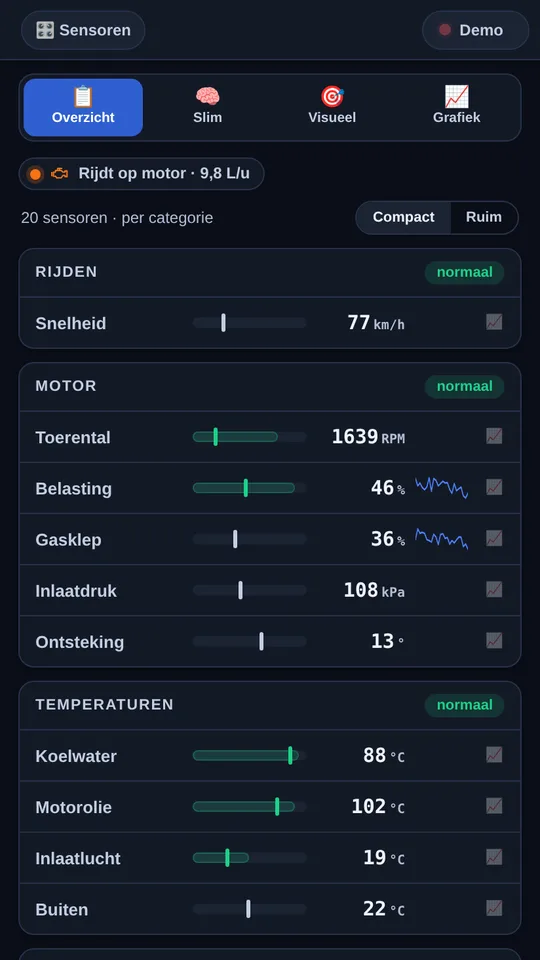
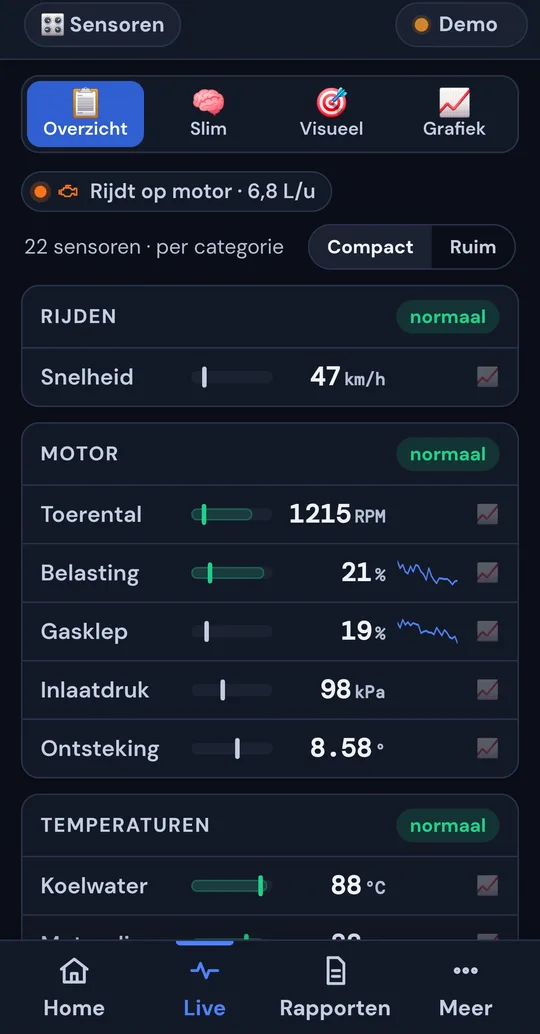
Website: Telemetrie en Overzicht uit een echte telefoonopname in de galerij
Claude-Session: https://claude.ai/code/session_01UqhcqoJv895NeWBr2GRvpm

diff --git a/index.html b/index.html
@@ -160,7 +160,7 @@
     <div style="margin-top:clamp(70px,9vw,120px)" id="weergaves">
       <p class="kick rv"><b>Meer weergaves</b></p>
       <h3 class="d2 rv" style="margin:28px 0 clamp(24px,3vw,40px)">Niet altijd een tunnel. <i>Kies je meter.</i></h3>
-      <p class="lead rv" style="max-width:720px;margin-bottom:clamp(28px,4vw,48px)">Hyperlane is de blikvanger, maar Visueel heeft meer standen. Elk met de sensoren die bij dat onderwerp horen. Veeg opzij om te wisselen. En wil je cijfers in plaats van meters: Overzicht, Slim en Grafiek staan er gewoon naast.</p>
+      <p class="lead rv" style="max-width:720px;margin-bottom:clamp(28px,4vw,48px)">Hyperlane is de blikvanger, maar Visueel heeft meer standen, tot en met Telemetrie: G-kracht, helling en kanteling uit de telefoon. Elk met de sensoren die bij dat onderwerp horen. Veeg opzij om te wisselen. En wil je cijfers in plaats van meters: Overzicht, Slim en Grafiek staan er gewoon naast.</p>
       <div style="display:grid;grid-template-columns:repeat(auto-fit,minmax(min(100%,440px),1fr));gap:clamp(24px,3vw,40px)"><figure class="rv" style="margin:0"><img src="img/vis/basis.webp" width="1100" height="495" alt="PidLane-weergave Basis" loading="lazy" style="width:100%;height:auto;border-radius:14px;display:block;border:1px solid rgba(255,255,255,.1)"><figcaption style="margin-top:10px;font-size:15px;line-height:1.5"><b>Basis</b> <span style="opacity:.7">De vaste meter: snelheid in het midden, toeren eromheen, temperatuur, verbruik en tank eronder.</span></figcaption></figure><figure class="rv" style="margin:0"><img src="img/vis/temp.webp" width="1100" height="495" alt="PidLane-weergave Temperatuur" loading="lazy" style="width:100%;height:auto;border-radius:14px;display:block;border:1px solid rgba(255,255,255,.1)"><figcaption style="margin-top:10px;font-size:15px;line-height:1.5"><b>Temperatuur</b> <span style="opacity:.7">Koelwater, olie, inlaat en buiten als vijf glazen buizen naast elkaar.</span></figcaption></figure><figure class="rv" style="margin:0"><img src="img/vis/emissie.webp" width="1100" height="495" alt="PidLane-weergave Emissie" loading="lazy" style="width:100%;height:auto;border-radius:14px;display:block;border:1px solid rgba(255,255,255,.1)"><figcaption style="margin-top:10px;font-size:15px;line-height:1.5"><b>Emissie</b> <span style="opacity:.7">Lambda groot, met brandstoftrims, O₂-sensoren en EGR ernaast.</span></figcaption></figure><figure class="rv" style="margin:0"><img src="img/vis/verbruik.webp" width="1100" height="495" alt="PidLane-weergave Verbruik" loading="lazy" style="width:100%;height:auto;border-radius:14px;display:block;border:1px solid rgba(255,255,255,.1)"><figcaption style="margin-top:10px;font-size:15px;line-height:1.5"><b>Verbruik</b> <span style="opacity:.7">Verbruik nu, digitaal, met snelheid, gaspedaal, luchtmassa en tank.</span></figcaption></figure><figure class="rv" style="margin:0"><img src="img/vis/motor.webp" width="1100" height="495" alt="PidLane-weergave Motor" loading="lazy" style="width:100%;height:auto;border-radius:14px;display:block;border:1px solid rgba(255,255,255,.1)"><figcaption style="margin-top:10px;font-size:15px;line-height:1.5"><b>Motor</b> <span style="opacity:.7">Toerental als neonring, met belasting, gasklep, inlaatdruk en ontsteking.</span></figcaption></figure></div>
     </div>
   </div>
@@ -365,8 +365,8 @@
   <div class="wrap">
     <p class="kick rv"><b>Zo ziet het eruit</b></p>
     <h2 class="d2 rv" style="margin:34px 0 clamp(28px,4vw,48px)">De echte app. <i>Geen mockup.</i></h2>
-    <div class="rv" style="display:flex;gap:16px;overflow-x:auto;scroll-snap-type:x mandatory;padding-bottom:12px;-webkit-overflow-scrolling:touch"><figure style="flex:0 0 clamp(200px,24vw,270px);margin:0;scroll-snap-align:start"><img src="img/app/meekijken.webp" width="540" height="960" alt="PidLane-scherm: Je monteur kijkt live mee" loading="lazy" style="width:100%;height:auto;border-radius:18px;display:block"></figure><figure style="flex:0 0 clamp(200px,24vw,270px);margin:0;scroll-snap-align:start"><img src="img/app/foutcodes.webp" width="540" height="960" alt="PidLane-scherm: Lampje aan? Weet het in 30 seconden" loading="lazy" style="width:100%;height:auto;border-radius:18px;display:block"></figure><figure style="flex:0 0 clamp(200px,24vw,270px);margin:0;scroll-snap-align:start"><img src="img/app/standen.webp" width="540" height="960" alt="PidLane-scherm: Kies je stand: Eco, Sport of Cruise" loading="lazy" style="width:100%;height:auto;border-radius:18px;display:block"></figure><figure style="flex:0 0 clamp(200px,24vw,270px);margin:0;scroll-snap-align:start"><img src="img/app/overzicht.webp" width="540" height="960" alt="PidLane-scherm: Overzicht, alle sensoren per categorie" loading="lazy" style="width:100%;height:auto;border-radius:18px;display:block"></figure><figure style="flex:0 0 clamp(200px,24vw,270px);margin:0;scroll-snap-align:start"><img src="img/app/slim.webp" width="540" height="960" alt="PidLane-scherm: Alleen wat er nu toe doet" loading="lazy" style="width:100%;height:auto;border-radius:18px;display:block"></figure><figure style="flex:0 0 clamp(200px,24vw,270px);margin:0;scroll-snap-align:start"><img src="img/app/grafiek.webp" width="540" height="960" alt="PidLane-scherm: Zie het verloop, niet één moment" loading="lazy" style="width:100%;height:auto;border-radius:18px;display:block"></figure><figure style="flex:0 0 clamp(200px,24vw,270px);margin:0;scroll-snap-align:start"><img src="img/app/accu.webp" width="540" height="960" alt="PidLane-scherm: Weet hoe je accu ervoor staat" loading="lazy" style="width:100%;height:auto;border-radius:18px;display:block"></figure><figure style="flex:0 0 clamp(200px,24vw,270px);margin:0;scroll-snap-align:start"><img src="img/app/ik-wil.webp" width="540" height="960" alt="PidLane-scherm: Kopen, verkopen of op reis: één tik" loading="lazy" style="width:100%;height:auto;border-radius:18px;display:block"></figure></div>
-    <p class="rv" style="margin-top:14px;opacity:.7;font-size:14px">Opgenomen in de demomodus: een gesimuleerde Mazda CX-5. Probeer hem zelf op <a href="https://app.pidlane.nl" target="_blank" rel="noopener">app.pidlane.nl</a>, zonder adapter.</p>
+    <div class="rv" style="display:flex;gap:16px;overflow-x:auto;scroll-snap-type:x mandatory;padding-bottom:12px;-webkit-overflow-scrolling:touch"><figure style="flex:0 0 clamp(200px,24vw,270px);margin:0;scroll-snap-align:start"><img src="img/app/meekijken.webp" width="540" height="960" alt="PidLane-scherm: Je monteur kijkt live mee" loading="lazy" style="width:100%;height:auto;border-radius:18px;display:block"></figure><figure style="flex:0 0 clamp(200px,24vw,270px);margin:0;scroll-snap-align:start"><img src="img/app/foutcodes.webp" width="540" height="960" alt="PidLane-scherm: Lampje aan? Weet het in 30 seconden" loading="lazy" style="width:100%;height:auto;border-radius:18px;display:block"></figure><figure style="flex:0 0 clamp(200px,24vw,270px);margin:0;scroll-snap-align:start"><img src="img/app/standen.webp" width="540" height="960" alt="PidLane-scherm: Kies je stand: Eco, Sport of Cruise" loading="lazy" style="width:100%;height:auto;border-radius:18px;display:block"></figure><figure style="flex:0 0 clamp(200px,24vw,270px);margin:0;scroll-snap-align:start"><img src="img/app/overzicht.webp" width="540" height="1034" alt="PidLane-scherm: Overzicht, alle sensoren per categorie" loading="lazy" style="width:100%;height:auto;border-radius:18px;display:block"></figure><figure style="flex:0 0 clamp(200px,24vw,270px);margin:0;scroll-snap-align:start"><img src="img/app/slim.webp" width="540" height="960" alt="PidLane-scherm: Alleen wat er nu toe doet" loading="lazy" style="width:100%;height:auto;border-radius:18px;display:block"></figure><figure style="flex:0 0 clamp(200px,24vw,270px);margin:0;scroll-snap-align:start"><img src="img/app/telemetrie.webp" width="540" height="1000" alt="PidLane-scherm: Telemetrie, G-kracht, helling en kanteling uit de telefoon" loading="lazy" style="width:100%;height:auto;border-radius:18px;display:block"></figure><figure style="flex:0 0 clamp(200px,24vw,270px);margin:0;scroll-snap-align:start"><img src="img/app/grafiek.webp" width="540" height="960" alt="PidLane-scherm: Zie het verloop, niet één moment" loading="lazy" style="width:100%;height:auto;border-radius:18px;display:block"></figure><figure style="flex:0 0 clamp(200px,24vw,270px);margin:0;scroll-snap-align:start"><img src="img/app/accu.webp" width="540" height="960" alt="PidLane-scherm: Weet hoe je accu ervoor staat" loading="lazy" style="width:100%;height:auto;border-radius:18px;display:block"></figure><figure style="flex:0 0 clamp(200px,24vw,270px);margin:0;scroll-snap-align:start"><img src="img/app/ik-wil.webp" width="540" height="960" alt="PidLane-scherm: Kopen, verkopen of op reis: één tik" loading="lazy" style="width:100%;height:auto;border-radius:18px;display:block"></figure></div>
+    <p class="rv" style="margin-top:14px;opacity:.7;font-size:14px">Opgenomen in de demomodus: een gesimuleerde Mazda CX-5. Telemetrie komt uit de sensoren van de telefoon zelf. Probeer hem zelf op <a href="https://app.pidlane.nl" target="_blank" rel="noopener">app.pidlane.nl</a>, zonder adapter.</p>
   </div>
 </section>
 
